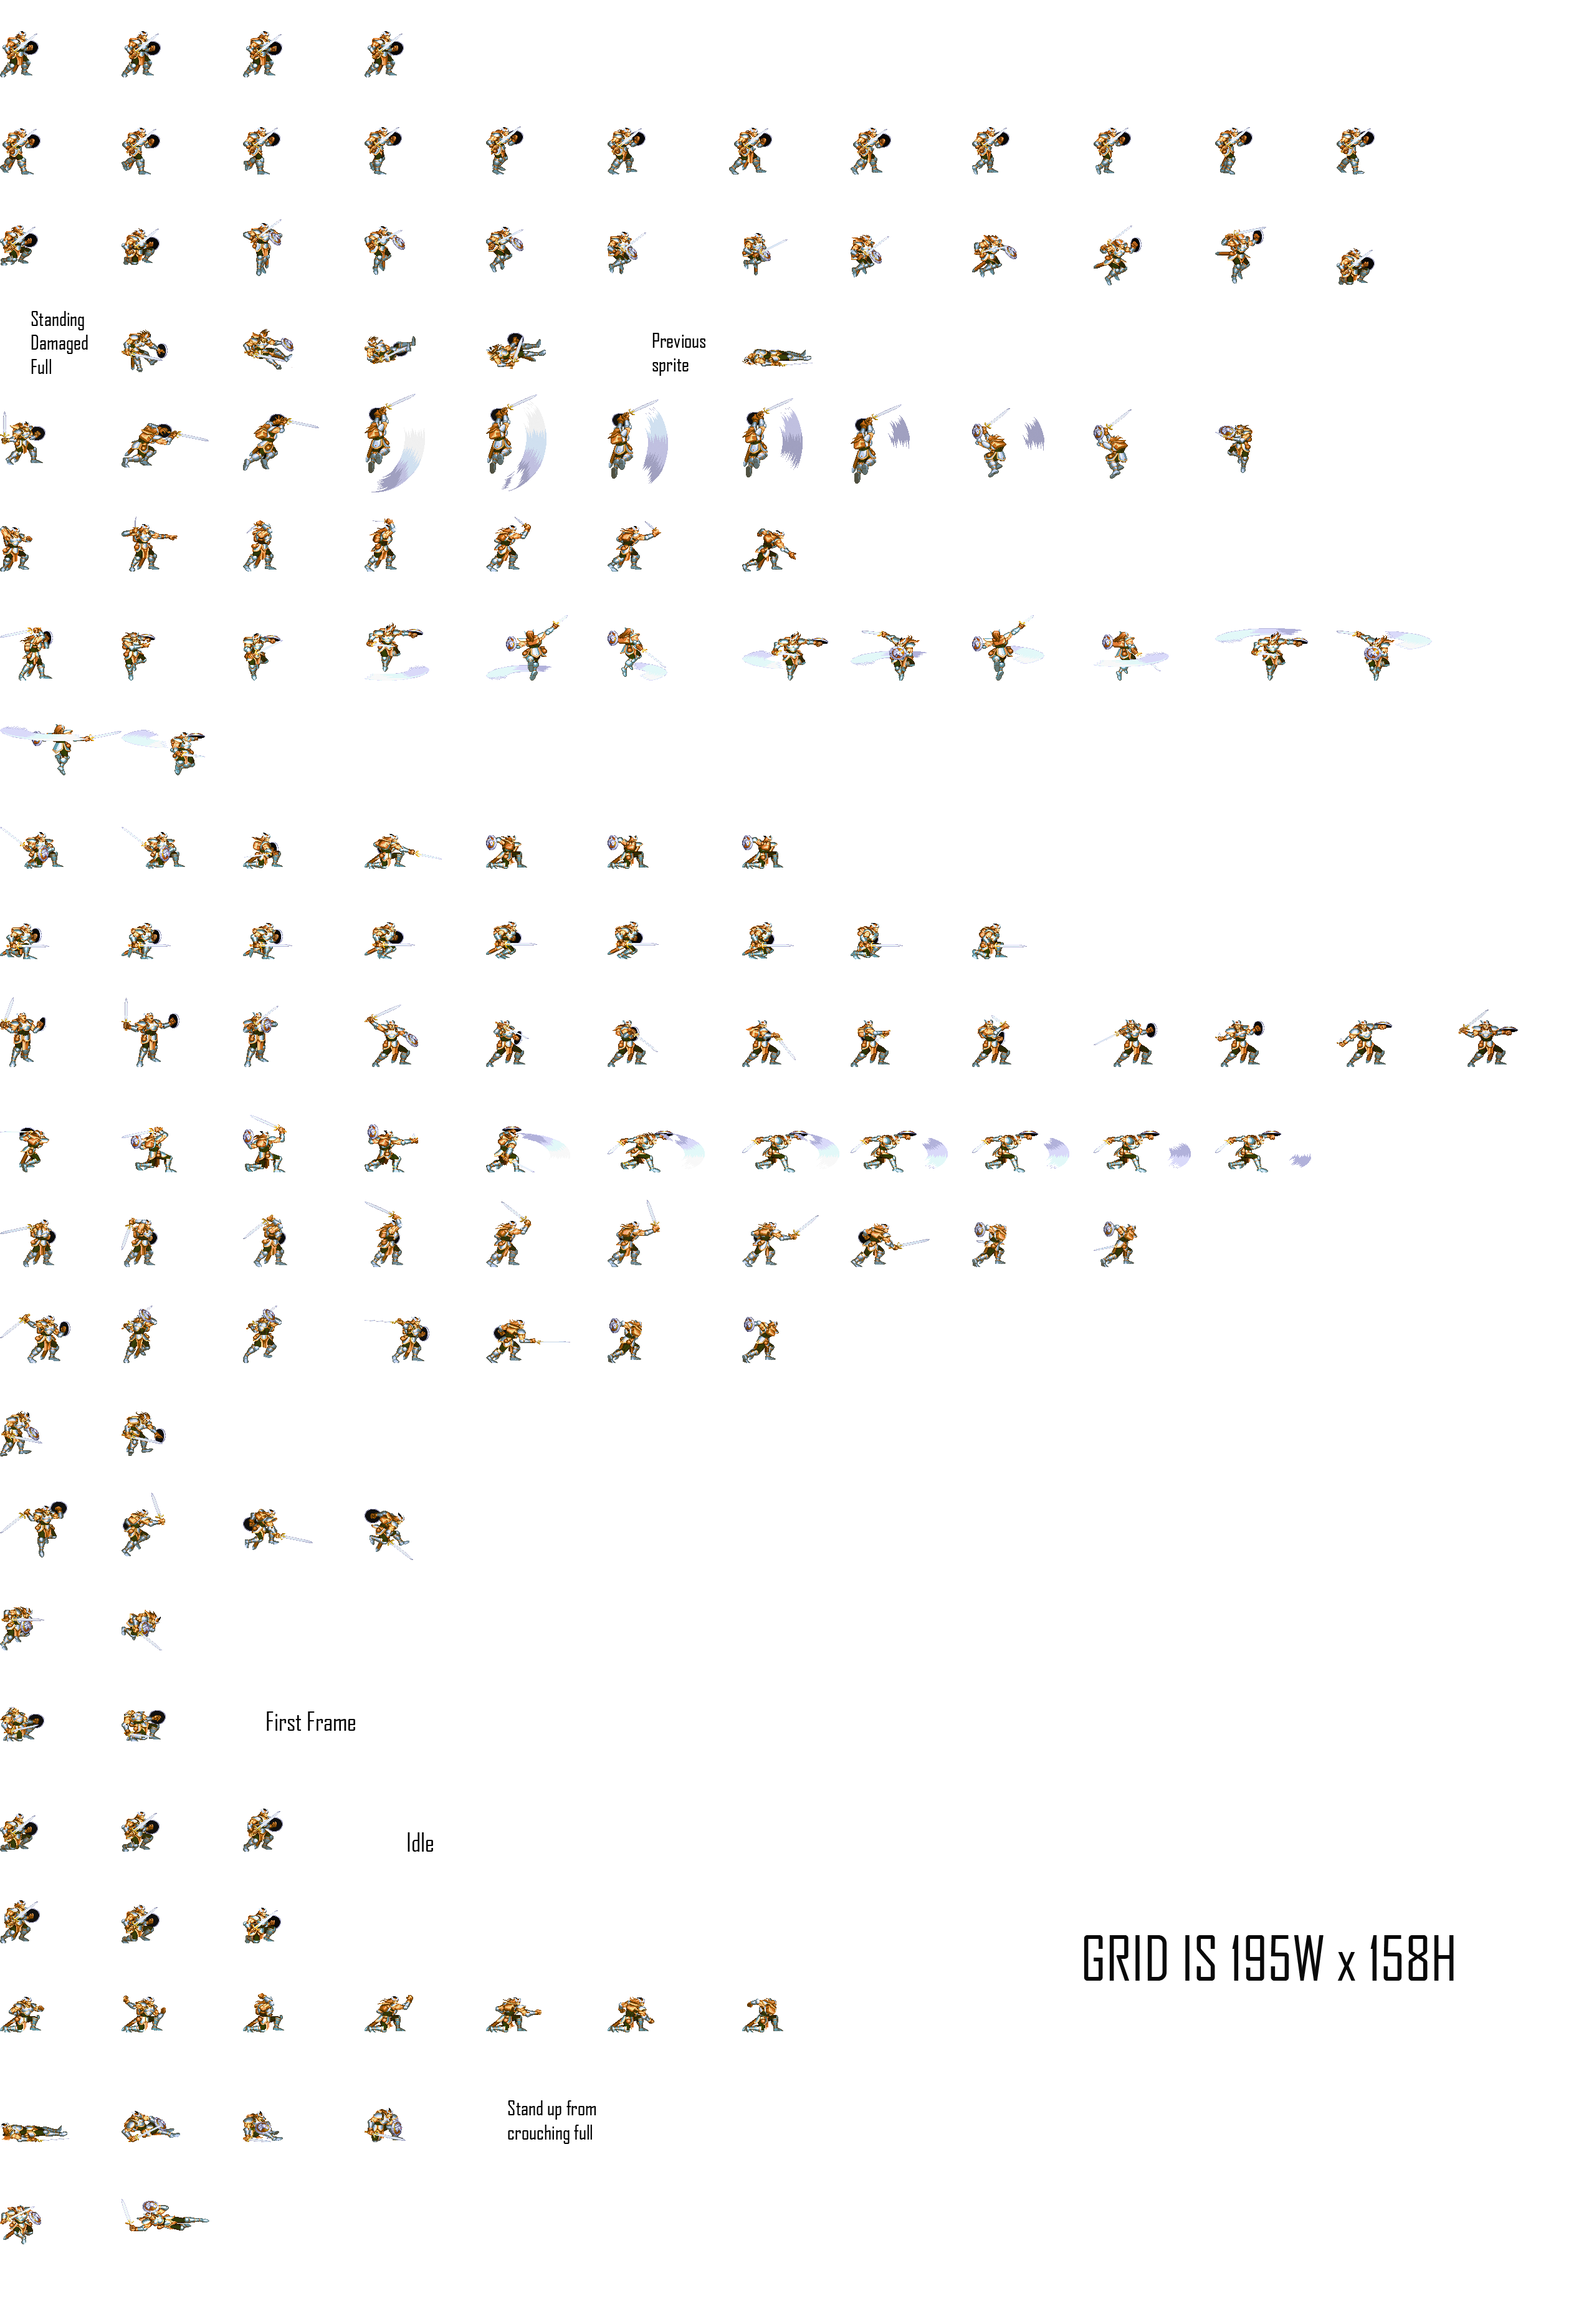
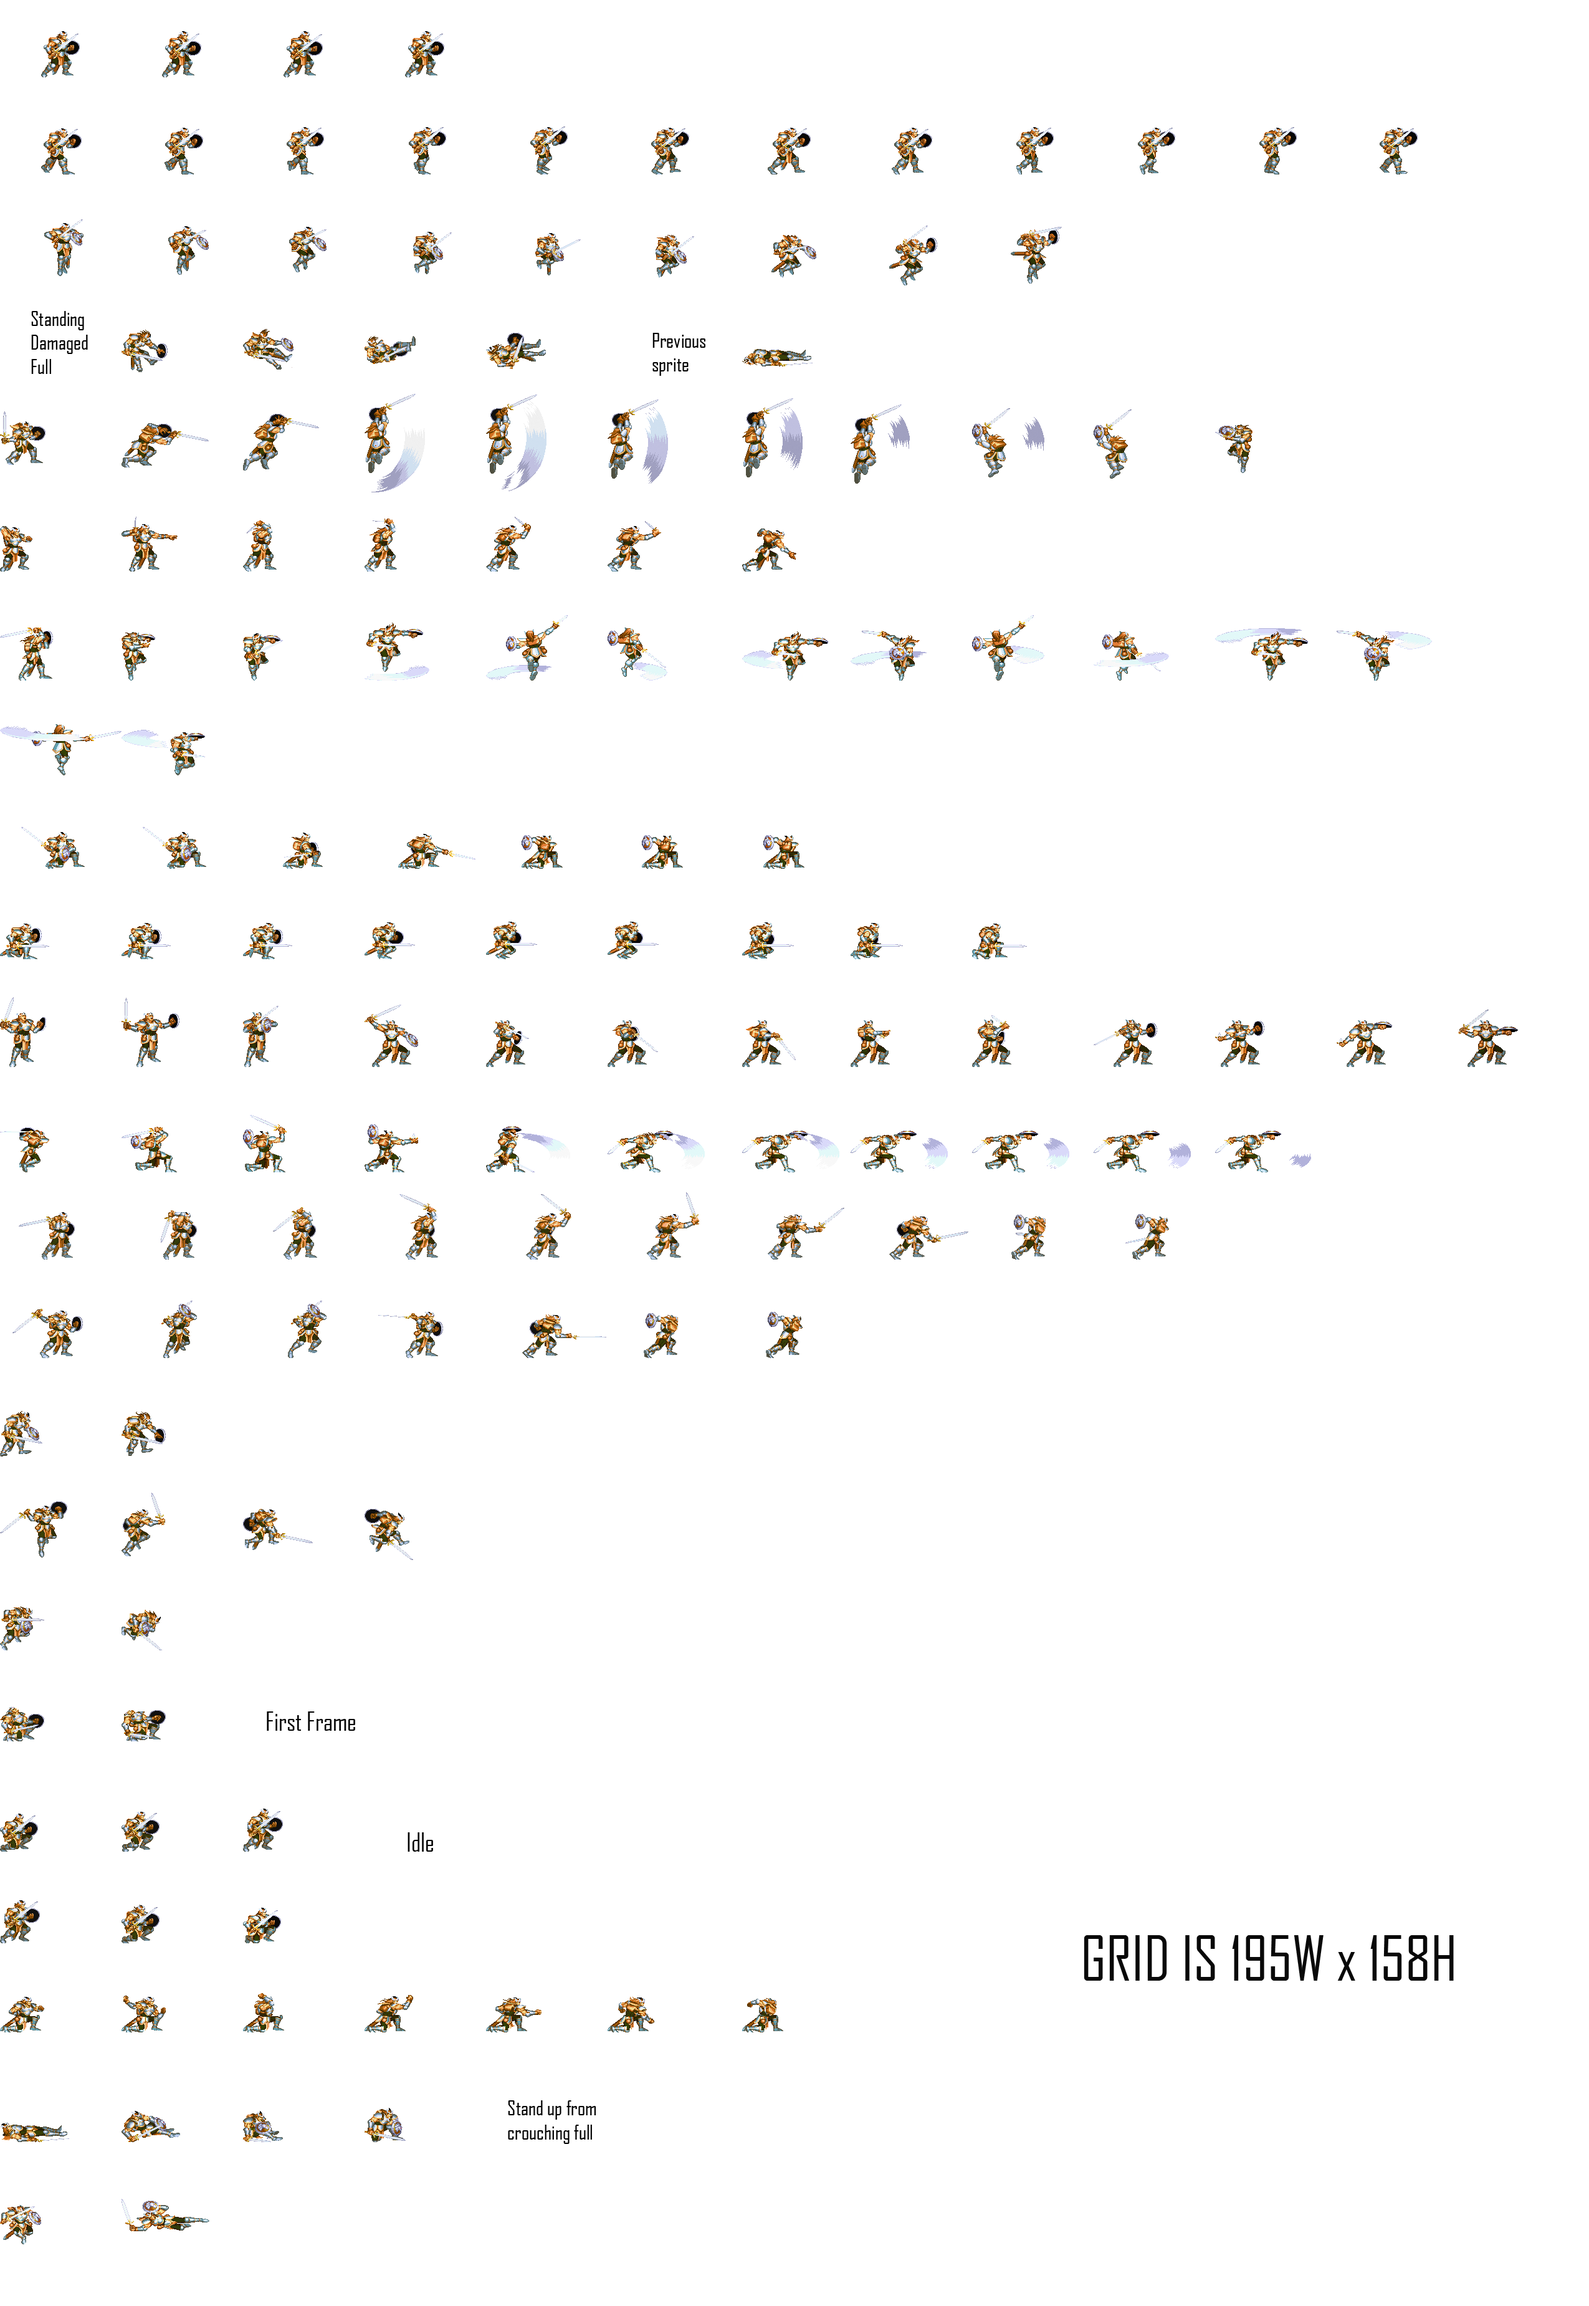
Fixed spritesheets and added heavy attack
There is a bug with jumping

diff --git a/src/Warrior.cpp b/src/Warrior.cpp
@@ -63,6 +63,32 @@ Warrior::Warrior(): Character() {
 	light_attack.speed = 0.2;
 
 
+	heavy_attack.PushBack({ 0,158 * 12,195, 158 });
+	heavy_attack.PushBack({ 195,158 * 12,195, 158 });
+	heavy_attack.PushBack({ 195 * 2,158 * 12,195, 158 });
+	heavy_attack.PushBack({ 195 * 3,158 * 12,195, 158 });
+	heavy_attack.PushBack({ 195 * 4,158 * 12,195, 158 });
+	heavy_attack.PushBack({ 195 * 5,158 * 12,195, 158 });
+	heavy_attack.PushBack({ 195 * 6,158 * 12,195, 158 });
+	heavy_attack.PushBack({ 195 * 7,158 * 12,195, 158 });
+	heavy_attack.PushBack({ 195 * 8,158 * 12,195, 158 });
+	heavy_attack.PushBack({ 195 * 9,158 * 12,195, 158 });
+
+	heavy_attack.loop = false;
+	heavy_attack.speed = 0.2;
+	
+	jump.PushBack({ 0, 158 * 2, 195, 158 });
+	jump.PushBack({ 195, 158 * 2, 195, 158 });
+	jump.PushBack({ 195 * 2, 158 * 2, 195, 158 });
+	jump.PushBack({ 195 * 3, 158 * 2, 195, 158 });
+	jump.PushBack({ 195 * 4, 158 * 2, 195, 158 });
+	jump.PushBack({ 195 * 5, 158 * 2, 195, 158 });
+	jump.PushBack({ 195 * 6, 158 * 2, 195, 158 });
+	jump.PushBack({ 195 * 7, 158 * 2, 195, 158 });
+	jump.PushBack({ 195 * 8, 158 * 2, 195, 158 });
+
+	jump.loop = false;
+	jump.speed = 0.2;
 	//PROVISIONAL, should be read from xml
 	grounded = true;
 

diff --git a/src/Character.h b/src/Character.h
@@ -104,7 +104,7 @@ protected:
 	bool hit = false;
 
 	// Entity collider
-	//Collider* hurtbox;								 
+	//collider* hurtbox;								 
 	
 
 	//input_values assigned_inputs;
@@ -115,7 +115,7 @@ protected:
 	CHAR_ATT_TYPE attack_doing;
 
 	Animation* current_animation;
-	Animation idle, walk_forward, walk_back, crouch, light_attack, heavy_attack;
+	Animation idle, walk_forward, walk_back, crouch, light_attack, heavy_attack, jump;
 
 	Player* owner;
 

diff --git a/src/Character.cpp b/src/Character.cpp
@@ -164,6 +164,7 @@ void Character::update(const bool(&inputs)[MAX_INPUTS]) {
 		break;
 
 	case JUMPING:
+		updateAnimation(jump);
 		if (grounded)
 			current_state = CHAR_STATE::IDLE;
 		else if (hit)
@@ -249,7 +250,7 @@ void Character::doAttack() {
 			current_state = IDLE;
 		break;
 	case ST_H:
-		updateAnimation(heavy_attack);
+ 		updateAnimation(heavy_attack);
 		if (current_animation->Finished())
 			current_state = IDLE;
 		break;
